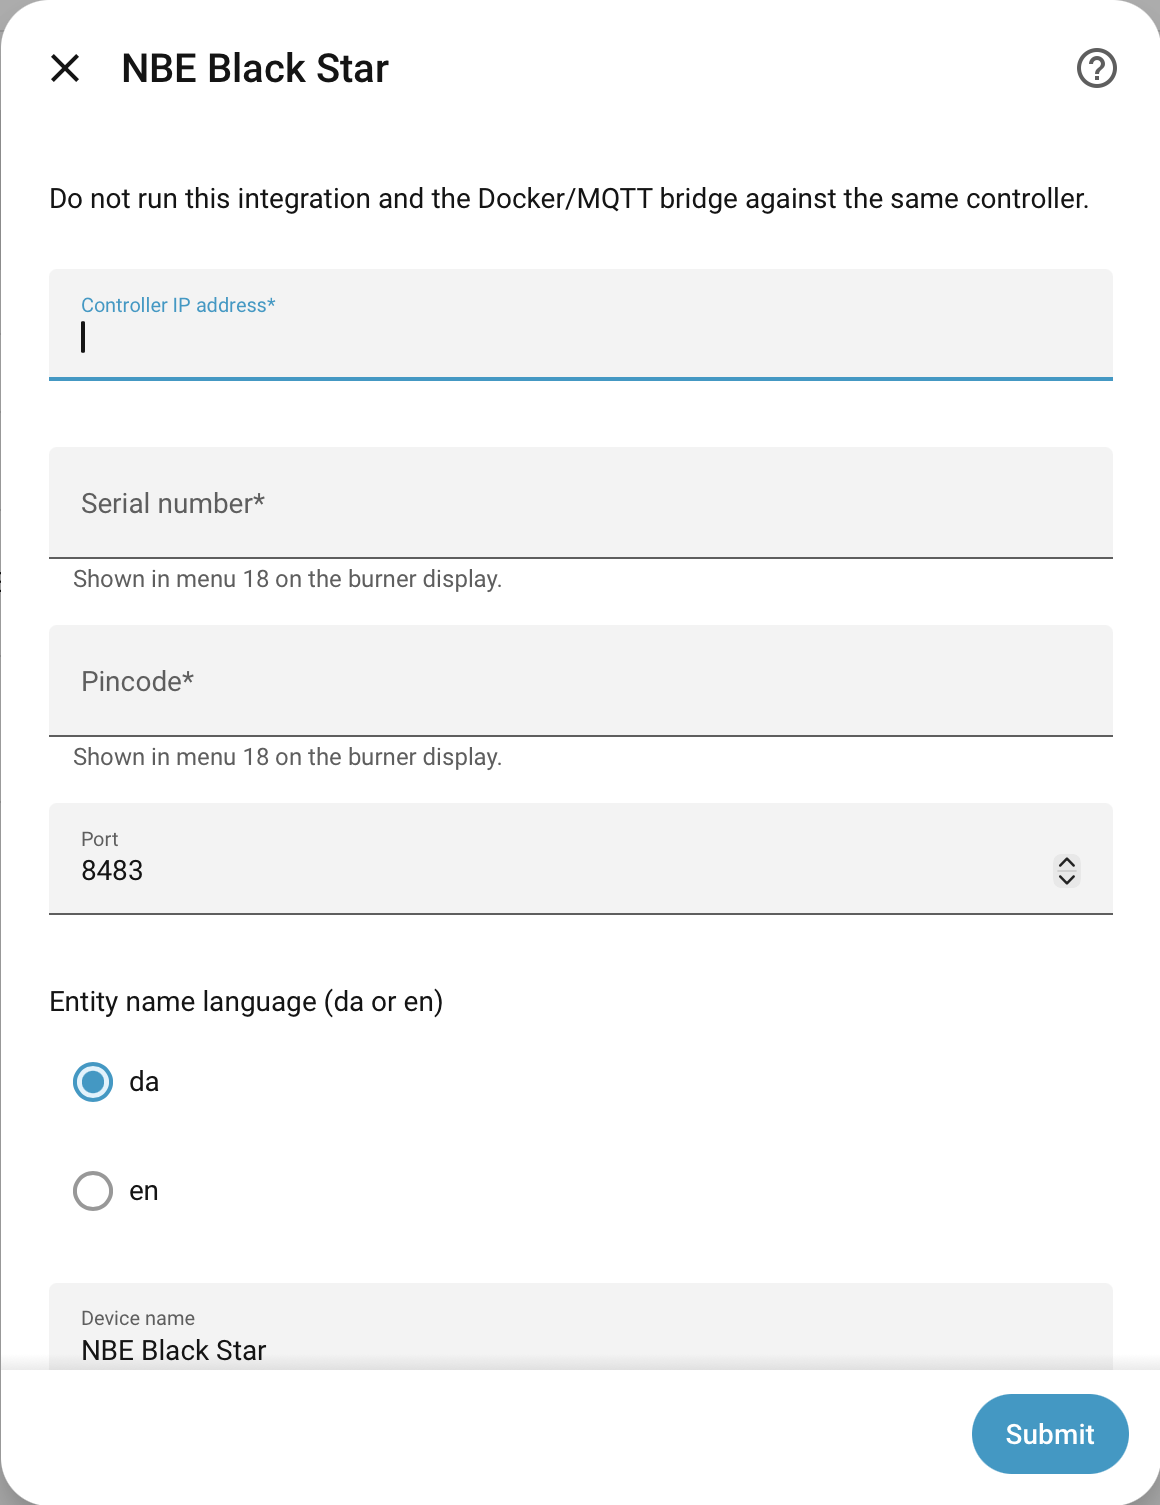
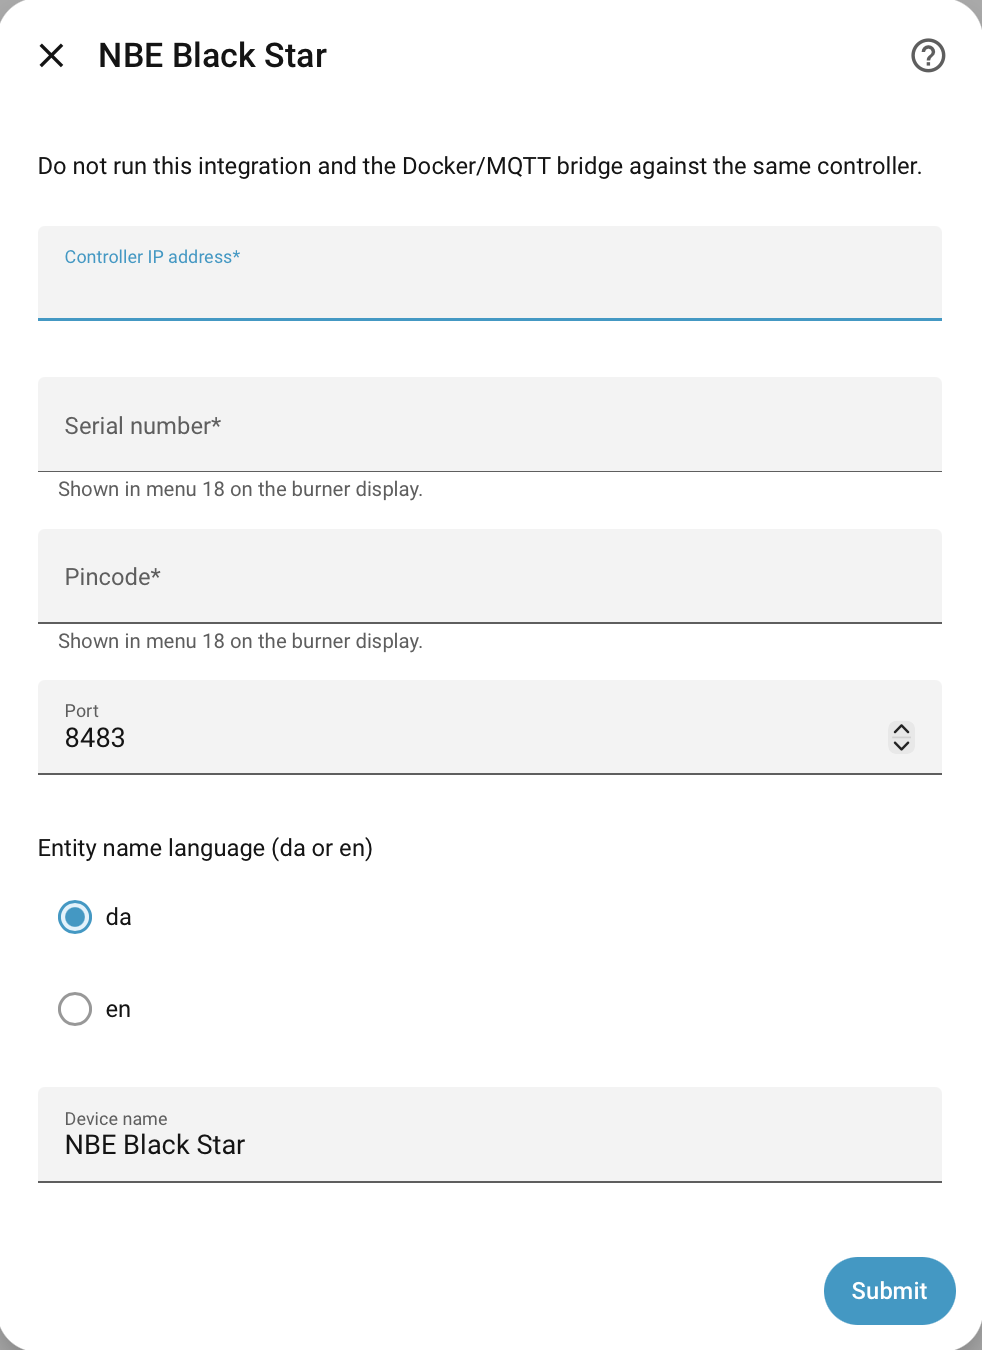
docs: document pellet silo, alarm decoding and new options, refresh screenshots
README lists the silo entities and the two new options and corrects the alarm note. values.md and docker.md follow 0.0.13. Screenshots show version 0.0.13.

diff --git a/README.md b/README.md
@@ -35,13 +35,14 @@
 - Boiler pump, floor pump and alarm as binary sensors
 - **Burner energy (kWh)** for the Home Assistant Energy dashboard, integrated from the burner power and kept across restarts
 - Pellet consumption counter (kg)
+- Pellet silo estimate with days left and a refill reminder, from the counter and your refill records
 - Entity names in Danish or English
 - Read-only: the integration never changes the burner
 - Talks to the controller on the local network, no cloud
 - A Docker/MQTT bridge is available as an alternative, see [docs/docker.md](docs/docker.md)
 
 <p align="center">
-  <img src="docs/img/boiler-demo.png" alt="Boiler dashboard in Home Assistant with temperatures, burner power and 24-hour graphs" width="720" />
+  <img src="docs/img/boiler-demo.png" alt="Boiler dashboard in Home Assistant with temperatures, burner power, pellet silo and 24-hour graphs" width="720" />
 </p>
 
 ---
@@ -105,6 +106,8 @@ Post-setup options are available via **Configure** on the integration card:
 |---|---|---|
 | Entity name language | `da` or `en` | As entered at setup |
 | Seconds between reads | How often the controller is read (10 to 3600) | 60 |
+| Silo capacity (kg) | Optional, for the pellet silo estimate | Empty |
+| Counter factor | Optional override of the learned counter factor. Use 1.0 once the auger is calibrated on the controller | Learned |
 
 ---
 
@@ -138,12 +141,18 @@ Post-setup options are available via **Configure** on the integration card:
 | `sensor.nbe_forbrug_teller` | kg | Pellet consumption counter |
 | `binary_sensor.nbe_kedelpumpe` | | Boiler pump |
 | `binary_sensor.nbe_gulvpumpe` | | Floor pump |
-| `binary_sensor.nbe_alarm` | | Alarm (meaning not confirmed, see below) |
+| `binary_sensor.nbe_alarm` | | Alarm, on in the no-fuel alarm (see below) |
+| `sensor.nbe_pellets_tilbage` | kg | Estimated pellets left in the silo |
+| `sensor.nbe_dage_tilbage` | days | Days left at the recent burn rate |
+| `binary_sensor.nbe_fyld_snart_paa` | | Refill soon: under 2 days left, or the estimate is zero |
+| `number.nbe_paafyldt_kg` | kg | Amount for the next refill record (default 144) |
+| `number.nbe_kalibrer_silo_niveau` | kg | Set the current silo level |
+| `button.nbe_registrer_paafyldning` | | Register a refill |
 
 Sensors that are not connected on your burner show unknown. The full list of controller values is in [docs/values.md](docs/values.md).
 
 <p align="center">
-  <img src="docs/img/device.png" alt="The NBE Black Star device in Home Assistant, with its sensors" width="520" />
+  <img src="docs/img/device.png" alt="The NBE Black Star device in Home Assistant, with its controls and sensors" width="520" />
 </p>
 
 ### Update interval
@@ -163,7 +172,8 @@ The controller is read every 60 seconds by default (configurable). A missed read
 ## Known Limitations
 
 - `Pellets in hopper` (`operating_data/content`) reports negative values on the test controller and is shown as unknown. It is not the "Magasinindhold" figure on the display, which tracks the pellet counter
-- The alarm entity is the controller flag `off_on_alarm`. It reads on while the burner runs, and during the no-fuel alarm it is neither on nor off, so it shows unknown. The V7 manual does not define it, so it is shown as a plain sensor and should not be used for notifications
+- The alarm entity is decoded from the controller flag and the operating state. It is on in the no-fuel alarm (state 20) and off while burning or on standby. Only that alarm is confirmed against the display, and the raw flag is kept in the `raw` attribute. Other alarm states are not recorded yet
+- The pellet silo estimate depends on your refill records. It learns its counter factor from each no-fuel alarm, and an empty alarm resets it to zero. Register every refill, and set the level with `Calibrate silo level` if it drifts
 - The operating state is a code. Its text mapping and the event log are not decoded yet
 - The pellet counter (kg) matches the burner display and the burner energy (about 4.6 kWh per kg). The V7 manual does not describe it
 - Tested on one Black Star 1016 with a V7 controller. Other models are not verified

diff --git a/docs/values.md b/docs/values.md
@@ -50,7 +50,7 @@ Confidence:
 | `house_pump_state` | Floor pump on | 0/1 | inferred | exposed as `gulvpumpe` |
 | `dhw_valve_state` | Hot water valve | 0/1 | inferred | candidate |
 | `house_valve_state` | Floor valve position | % | inferred | exposed as `gulv_ventil` |
-| `off_on_alarm` | Three-way flag: off, on, alarm | 0/1/other | inferred | exposed as `alarm`. It reads `1` (on) while the burner runs. During the no-fuel alarm (state `20`, 2026-10-30) it was neither 0 nor 1, so the binary sensor showed unknown. The name suggests off/on/alarm. A binary sensor cannot show a third value, so **do not use it for notifications**. The V7 manual does not define this flag |
+| `off_on_alarm` | Three-way flag: off, on, alarm | 0/1/other | inferred | The raw flag reads `1` (on) while the burner runs, and during the no-fuel alarm (state `20`, 2026-10-30) it was neither 0 nor 1. The V7 manual does not define it. Since 0.0.13 the `alarm` binary sensor is decoded from the operating state and this flag: on in state `20`, off while burning or on standby. The raw flag is kept in the `raw` attribute |
 | `feed_low`, `feed_medium`, `feed_high` | Feed rate per power level | unknown | unknown | candidate after checking the unit |
 | `corr_low`, `corr_medium`, `corr_high` | Correction factor per power level | % | unknown | skip until understood |
 | `ash_clean`, `compressor_clean` | Time since cleaning | unknown | inferred | candidate; useful for maintenance |

diff --git a/docs/docker.md b/docs/docker.md
@@ -21,6 +21,8 @@ The image runs as a non-root user and has a healthcheck. It is unhealthy if the 
 
 Entities appear through MQTT discovery under the device name from your configuration (default `NBE Black Star`). Sensors use `sensor.nbe_<object_id>`, pumps and alarm use `binary_sensor.nbe_*`.
 
+The pellet silo estimate (pellets left, days left, refill reminder, refill and calibrate controls) is only in the HACS integration. The bridge does not publish it.
+
 ## Configuration
 
 Every setting comes from an environment variable. `config.json` is optional and may hold non-secret overrides (see [config.json-example](config.json-example)). Secrets are environment-only.
